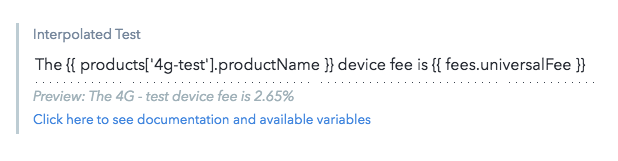
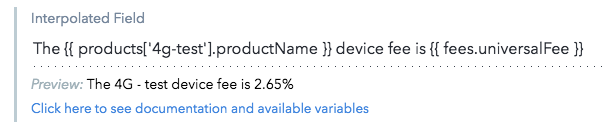
configure docs url using instance parameter, update image

diff --git a/packages/simple-field-interpolation/src/components/App.js b/packages/simple-field-interpolation/src/components/App.js
@@ -1,5 +1,6 @@
 // eslint-disable-next-line no-unused-vars
 import { h, Component } from 'preact';
+import { get } from 'lodash';
 
 import Input from './Input';
 import Preview from './Preview';
@@ -15,6 +16,14 @@ export default class App extends Component {
       value: props.field.getValue(),
       preview: {},
       error: ''
+    };
+
+    this.config = {
+      docsUrl: get(
+        props,
+        'parameters.instance.docsUrl',
+        'https://sumupteam.atlassian.net/wiki/spaces/DEV/pages/549257252/Website+variables'
+      )
     };
   }
 
@@ -74,7 +83,7 @@ export default class App extends Component {
       <div>
         <Input onInput={this.handleChange} value={value} id="extension-input" />
         <Error>{error}</Error>
-        <Preview preview={preview} />
+        <Preview preview={preview} docsUrl={this.config.docsUrl} />
       </div>
     );
   }

diff --git a/packages/simple-field-interpolation/src/components/Preview.js b/packages/simple-field-interpolation/src/components/Preview.js
@@ -1,7 +1,7 @@
 // eslint-disable-next-line no-unused-vars
 import { h } from 'preact';
 
-export default function Preview({ preview }) {
+export default function Preview({ preview, docsUrl }) {
   return (
     <div>
       {preview !== '' && (
@@ -12,12 +12,7 @@ export default function Preview({ preview }) {
           </span>
         </div>
       )}
-      <a
-        class="docs"
-        href="https://sumupteam.atlassian.net/wiki/spaces/DEV/pages/549257252/Website+variables"
-        target="_blank"
-        rel="noopener noreferrer"
-      >
+      <a class="docs" href={docsUrl} target="_blank" rel="noopener noreferrer">
         Click here to see documentation and available variables
       </a>
     </div>
